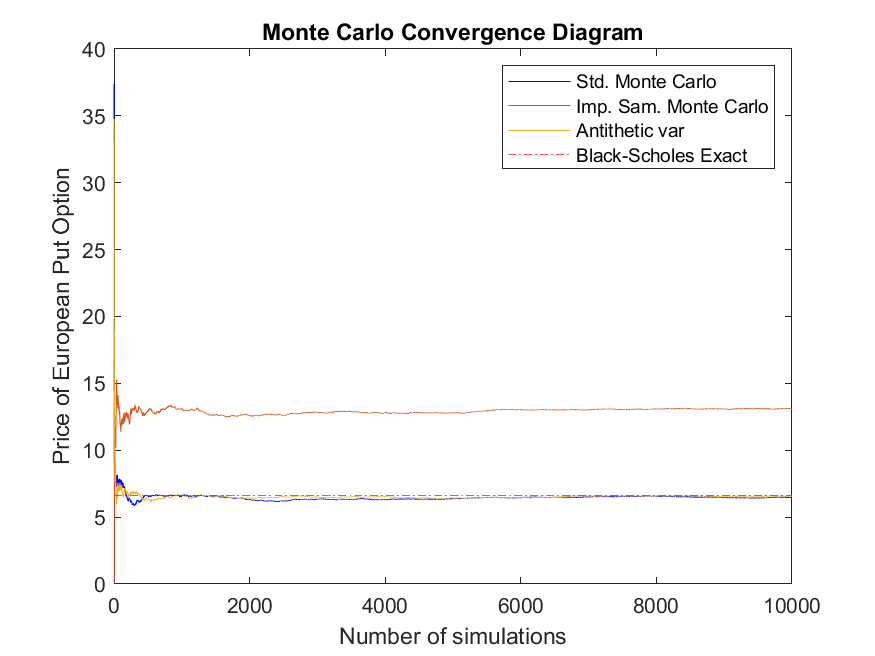
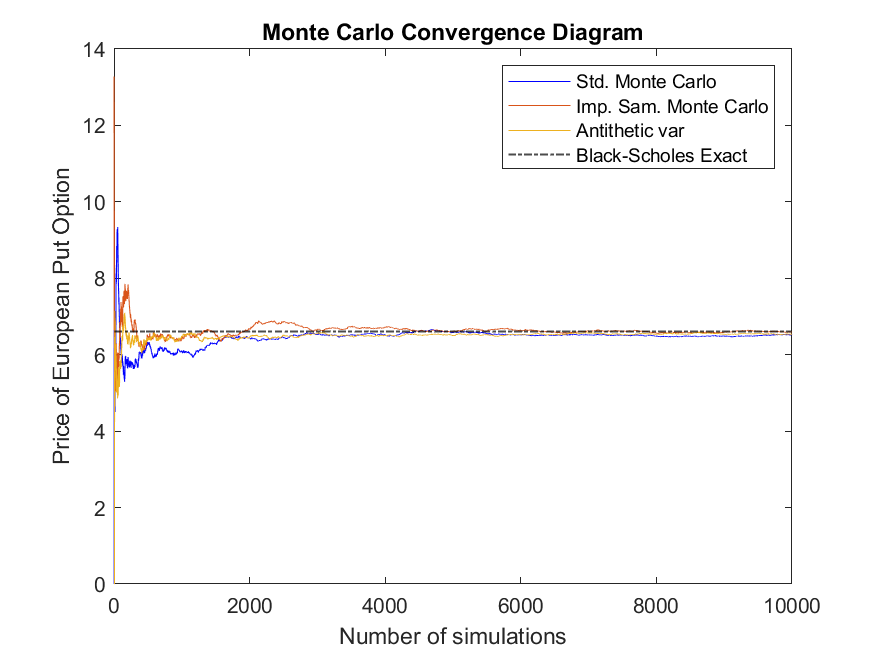
update European put Monte Carlo

diff --git a/Project 1/European Option/Standard European Put/Eu_Put_Monte_Carlo.m b/Project 1/European Option/Standard European Put/Eu_Put_Monte_Carlo.m
@@ -44,7 +44,7 @@ beta=-log(K/S)-(r-0.5*sigma^2)*T\sigma\sqrt(T);
 Y=randn(1,N);
 W=zeros(1,N);
 for k=1:N
-    W(k)=max(S*exp((r-0.5*sigma^2)*T+sigma*sqrt(T)*(Y(k)-beta))-K,0)*exp(beta*Y(k)-0.5*beta^2);
+    W(k)=max(K-S*exp((r-0.5*sigma^2)*T+sigma*sqrt(T)*(Y(k)-beta)),0)*exp(beta*Y(k)-0.5*beta^2);
 end 
 U=zeros(1,N);
 U(1)=W(1);
@@ -94,7 +94,8 @@ figure(1)
 plot(1:N,U,'DisplayName','Antithetic var')
 hold on
 figure(1)
-yline(BSExact(S,K,r,sigma,T),'-.r','','LineWidth',0.5,'DisplayName','Black-Scholes Exact')
+xvar=ones(1,N);
+yline(BSExact(S,K,r,sigma,T),'-.k','','LineWidth',1,'DisplayName','Black-Scholes Exact')
 legend
 hold off
 saveas(gcf,'EU_Put_MC_Convergence','png')
